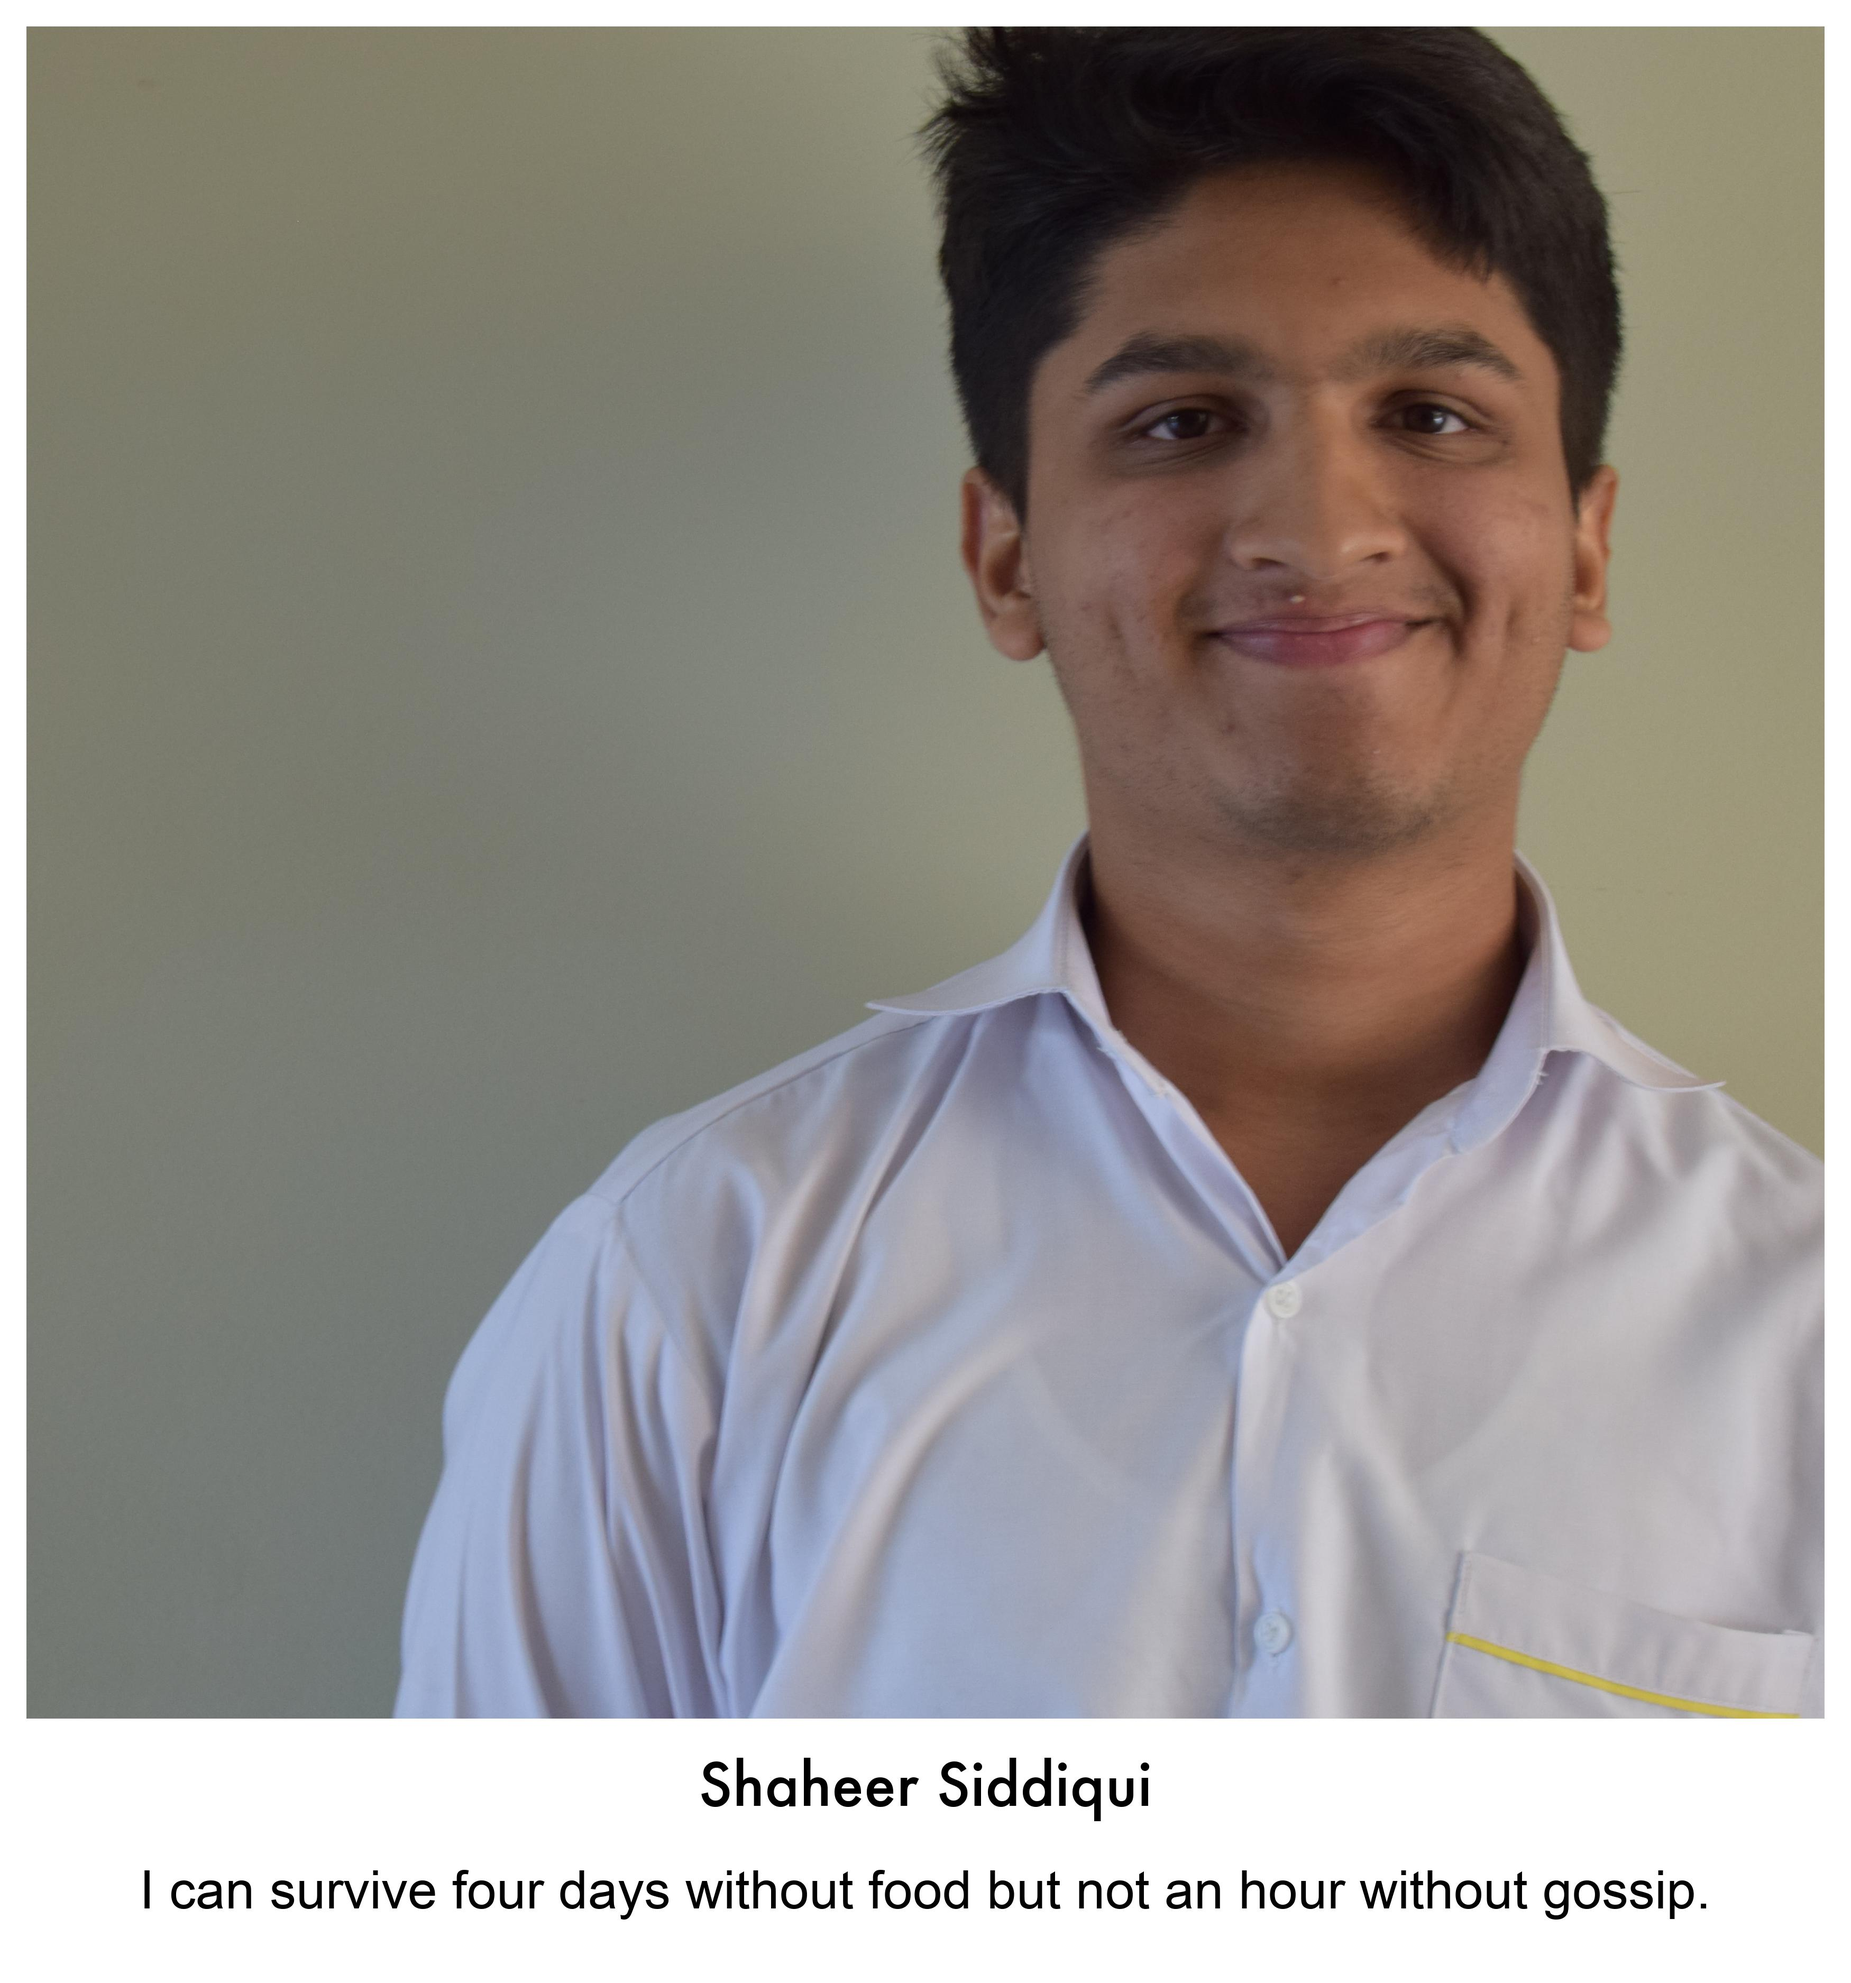
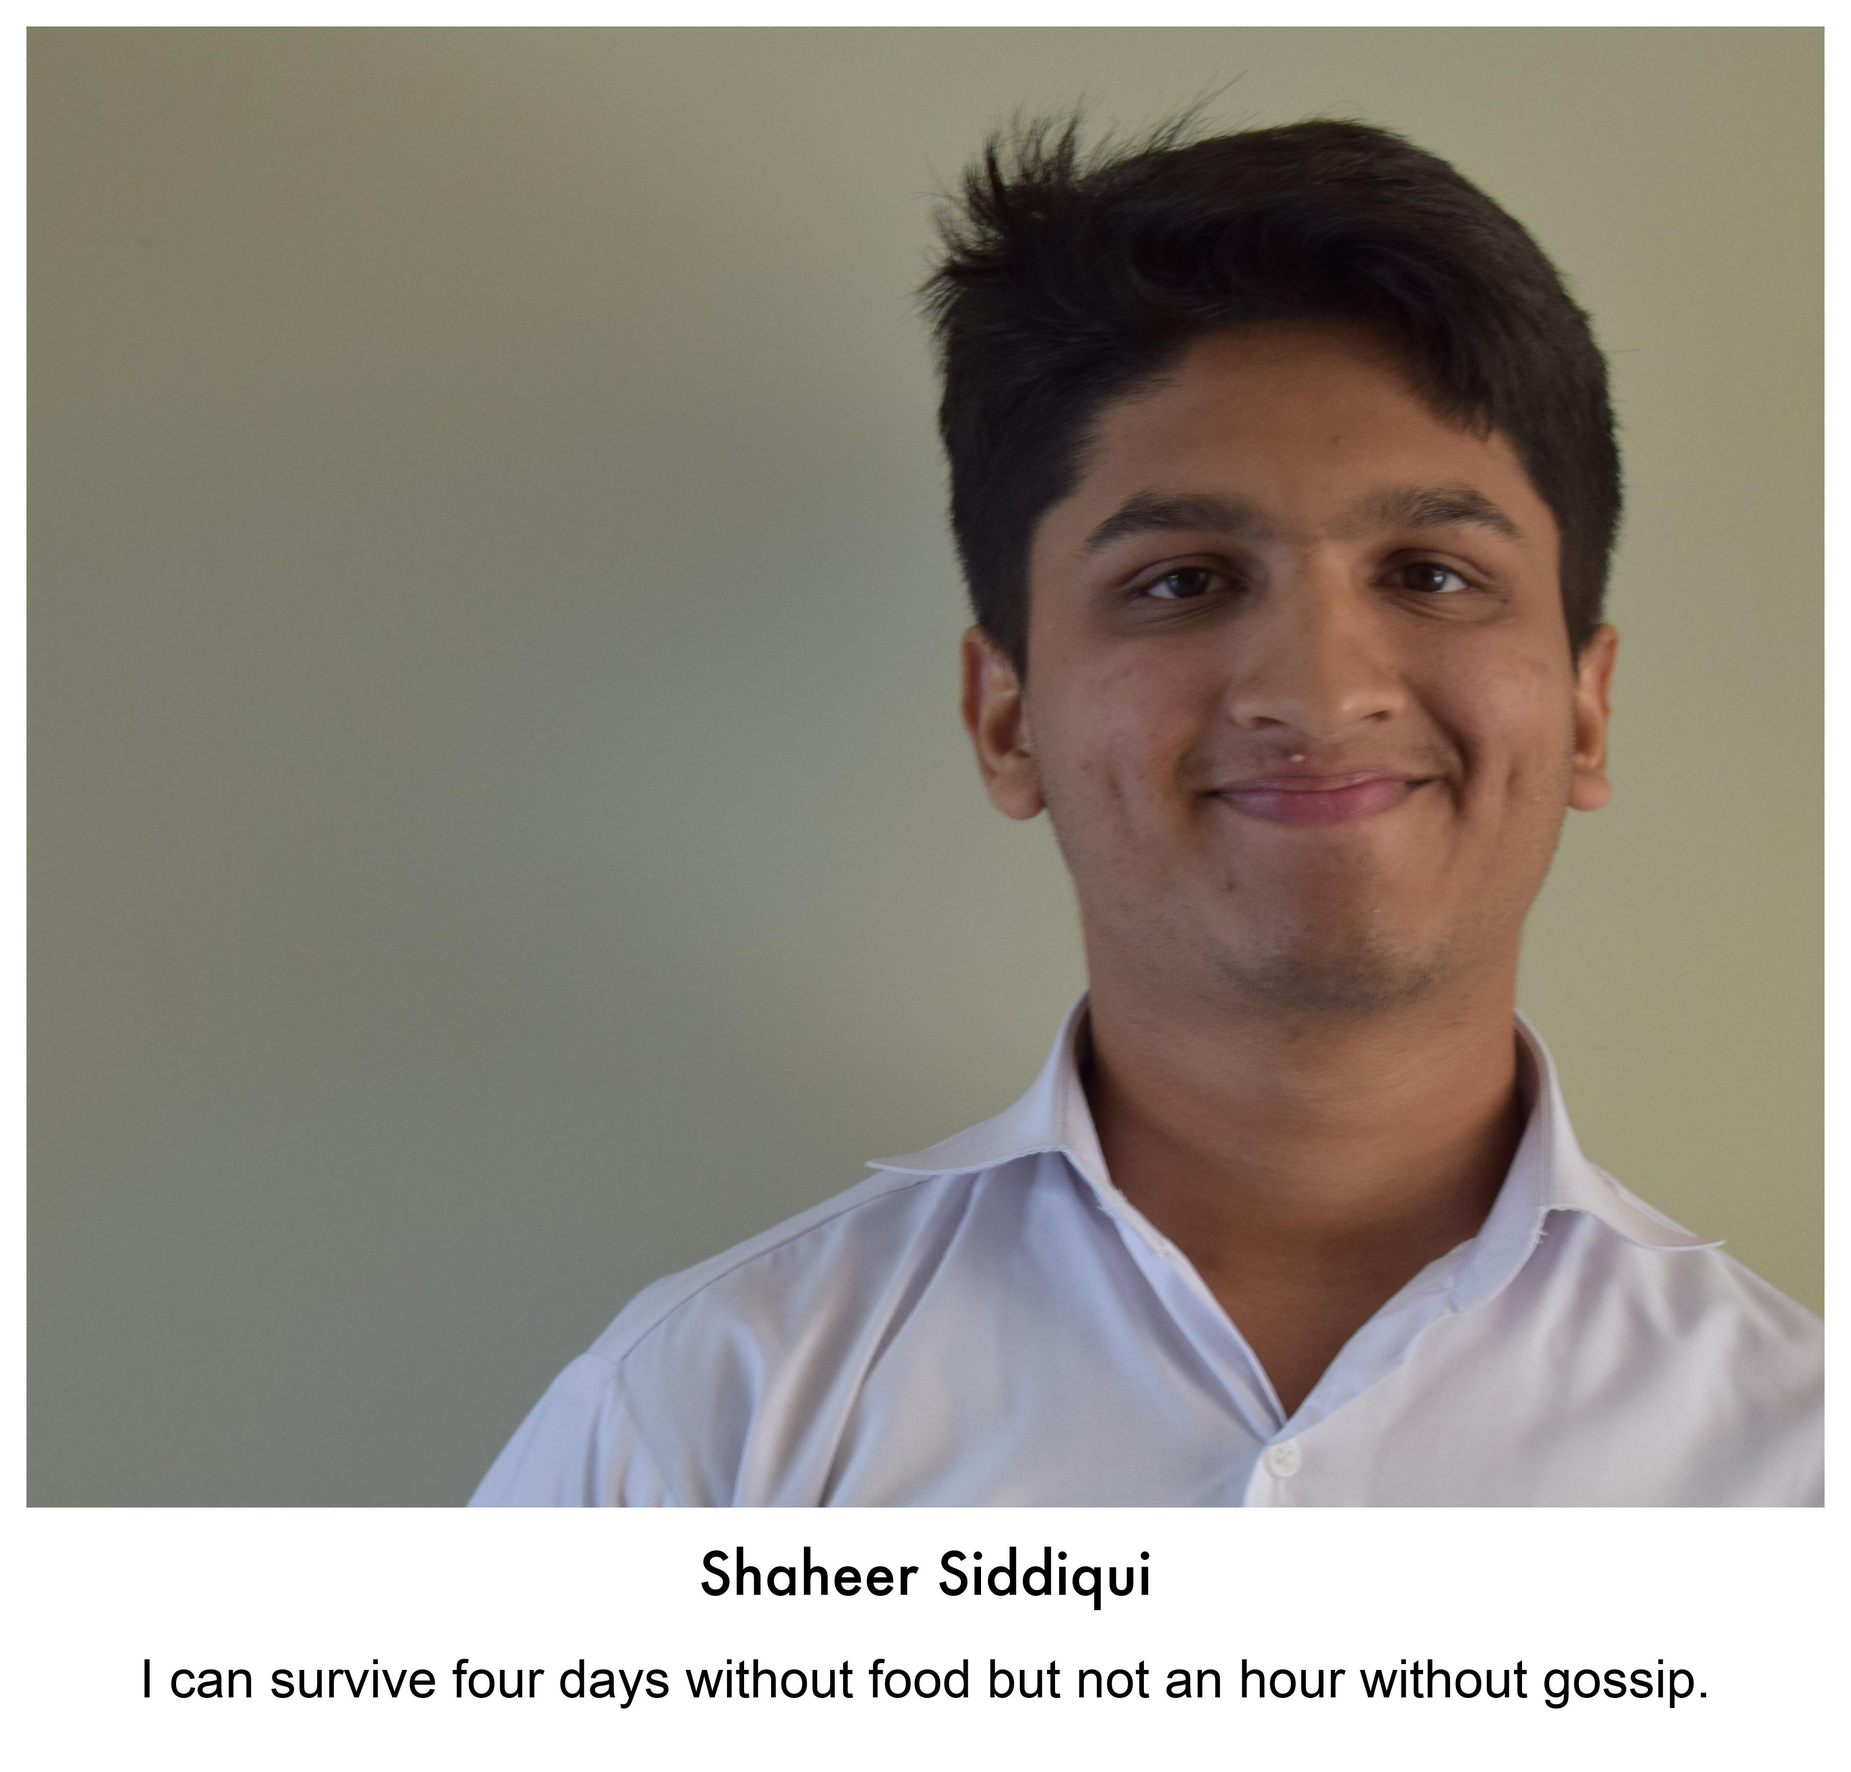
Made them rectangular.

diff --git a/imgprocessingfunc.py b/imgprocessingfunc.py
@@ -30,8 +30,8 @@ def cropit(im):
     width, height = im.size
     right = width-1300
     left = 1300  
-    top = 400
-    bottom = height - top
+    top = 100
+    bottom = height - (top + 1000)
     im1 = im.crop((left, top, right, bottom))
     print('done')
     return im1
